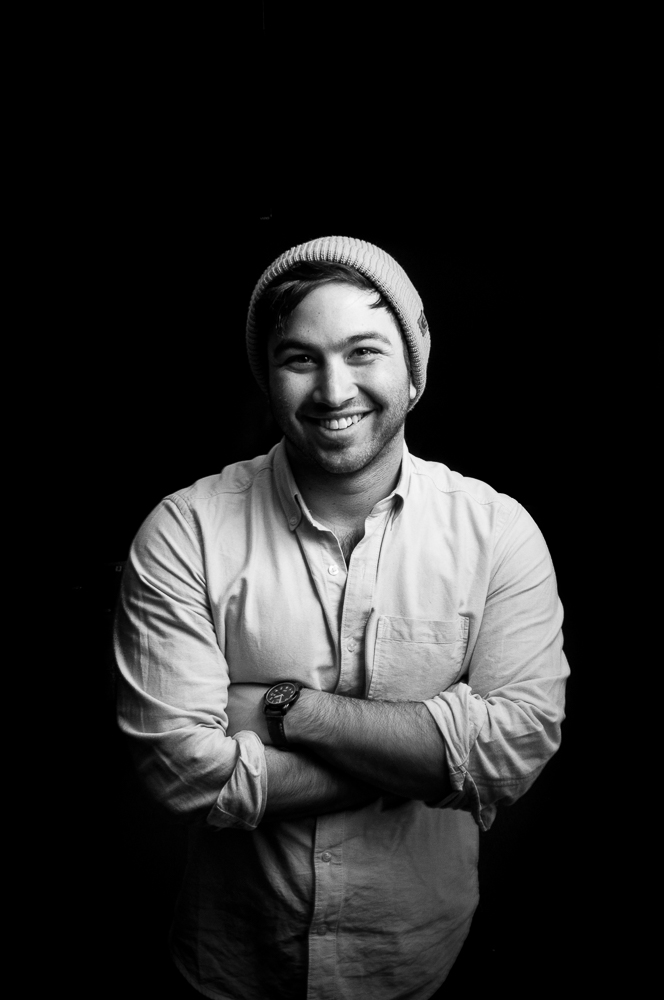
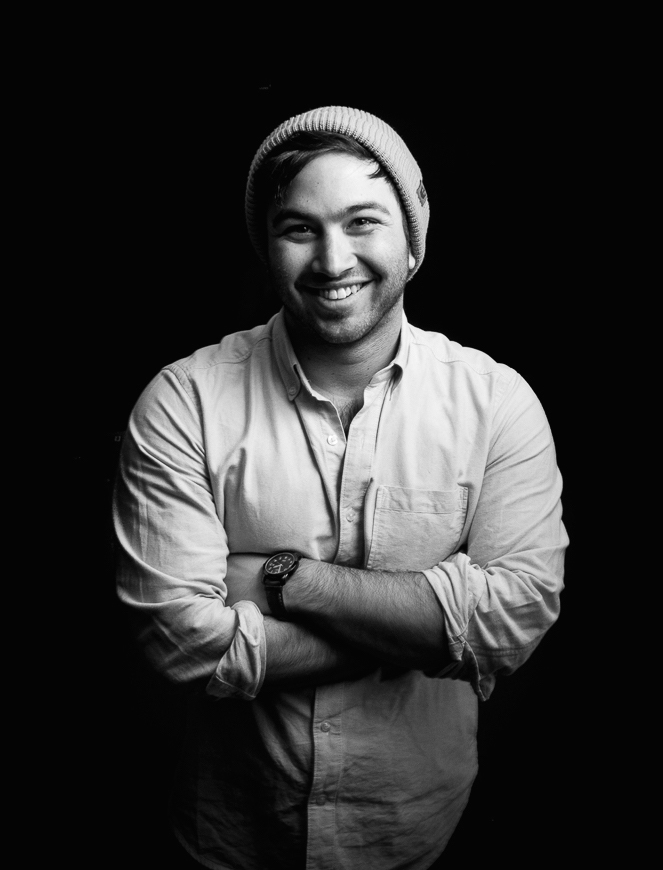
inner div being finnicky

Changed region(s): [[0.1508, 0.1241, 0.8748, 0.9621], [0.6938, 0.9, 0.724, 0.931]]

diff --git a/css/style.css b/css/style.css
@@ -43,6 +43,7 @@ font: 1em/1.5 arial, sans-serif;
 color: #373737;
 }
 
+
 h1 {
 	font: 1.5em/1.5 'League Spartan', arial, sans-serif;
 	color: #222222;
@@ -57,6 +58,9 @@ a {
 a:hover, a:focus {
 	color: #000;
 }
+
+main ul {padding-top: 1em;}
+
 
 /* Layout
 ================================================== */
@@ -75,13 +79,14 @@ main {
 	align-items:center;
 }
 
-
-main > * {vertical-align: middle;}
-
+.avatar {display: none;}
 aside {overflow: hidden;}
 
-aside img {max-width: 100%; min-height: 100%}
+aside img {max-width: 100%; }
 
-@media only screen and (max-width: 40em) {
+@media only screen and (max-width: 53.125em) {
 	main, aside {float: none; width: 100%;}
+	aside {display: none;}
+	.avatar {display: block;}
+	.avatar { margin: -1em auto 1em auto;}
  }
